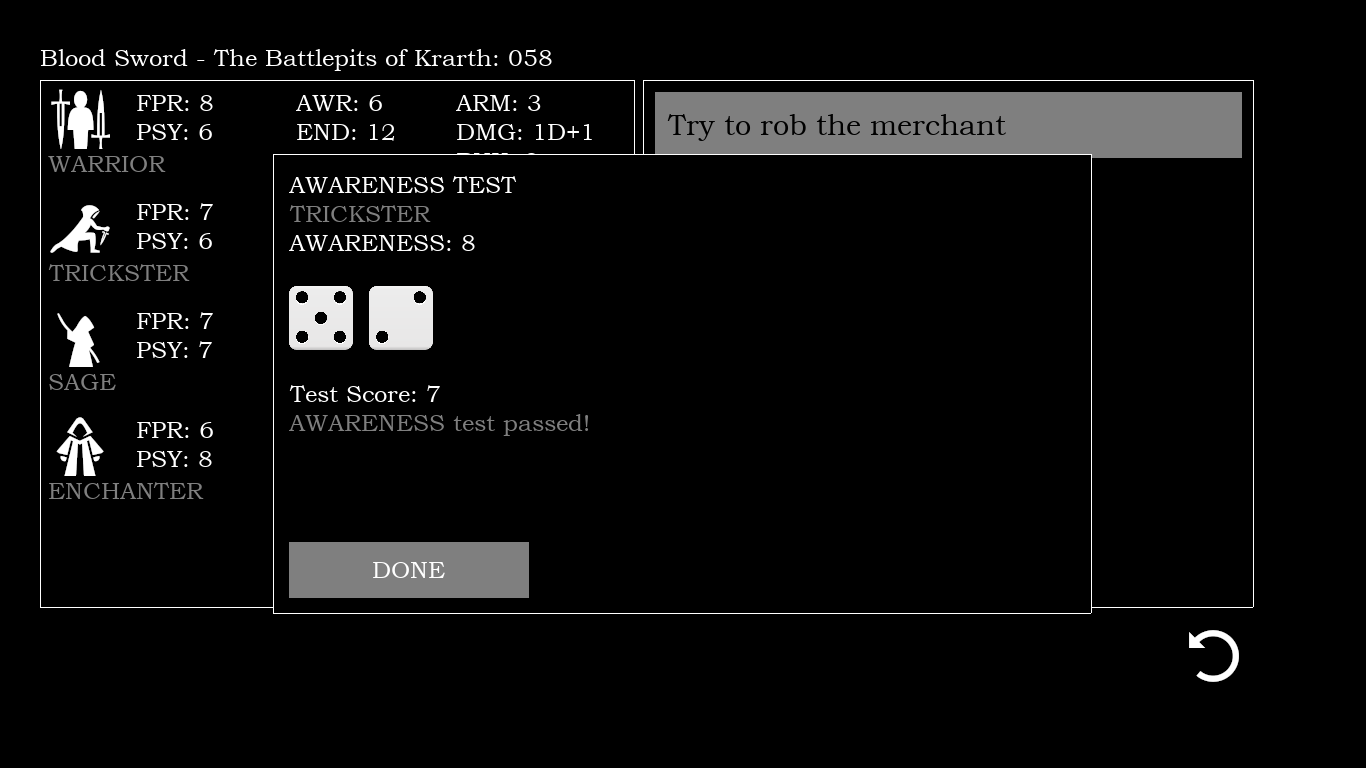
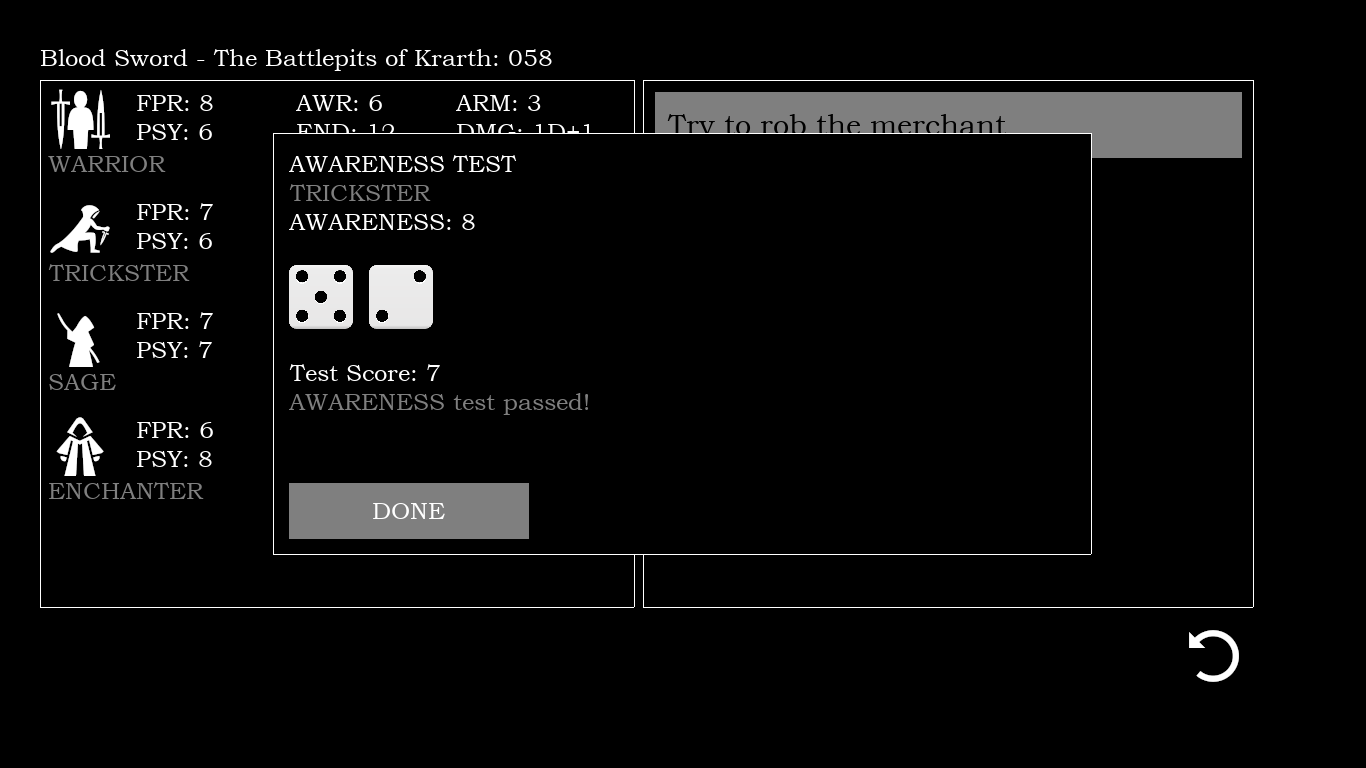
update screenshots

diff --git a/src/interface.hpp b/src/interface.hpp
@@ -4810,9 +4810,9 @@ namespace Interface
         auto Result = Attributes::Result::NONE;
         auto ObjectSize = 64;
         auto WindowW = 3 * SCREEN_WIDTH / 5;
-        auto WindowH = 3 * SCREEN_HEIGHT / 5;
+        auto WindowH = 4 * Screen.TextBoxHeight / 5;
         auto WindowX = (SCREEN_WIDTH - WindowW) / 2;
-        auto WindowY = (SCREEN_HEIGHT - WindowH) / 2;
+        auto WindowY = Screen.TextBoxY + (Screen.TextBoxHeight - WindowH) / 2;
         auto ColumnWidth = WindowW - 4 * text_space;
         auto RowHeight = TTF_FontHeight(Fonts::Normal);
         auto TextY = WindowY + 2 * text_space;
